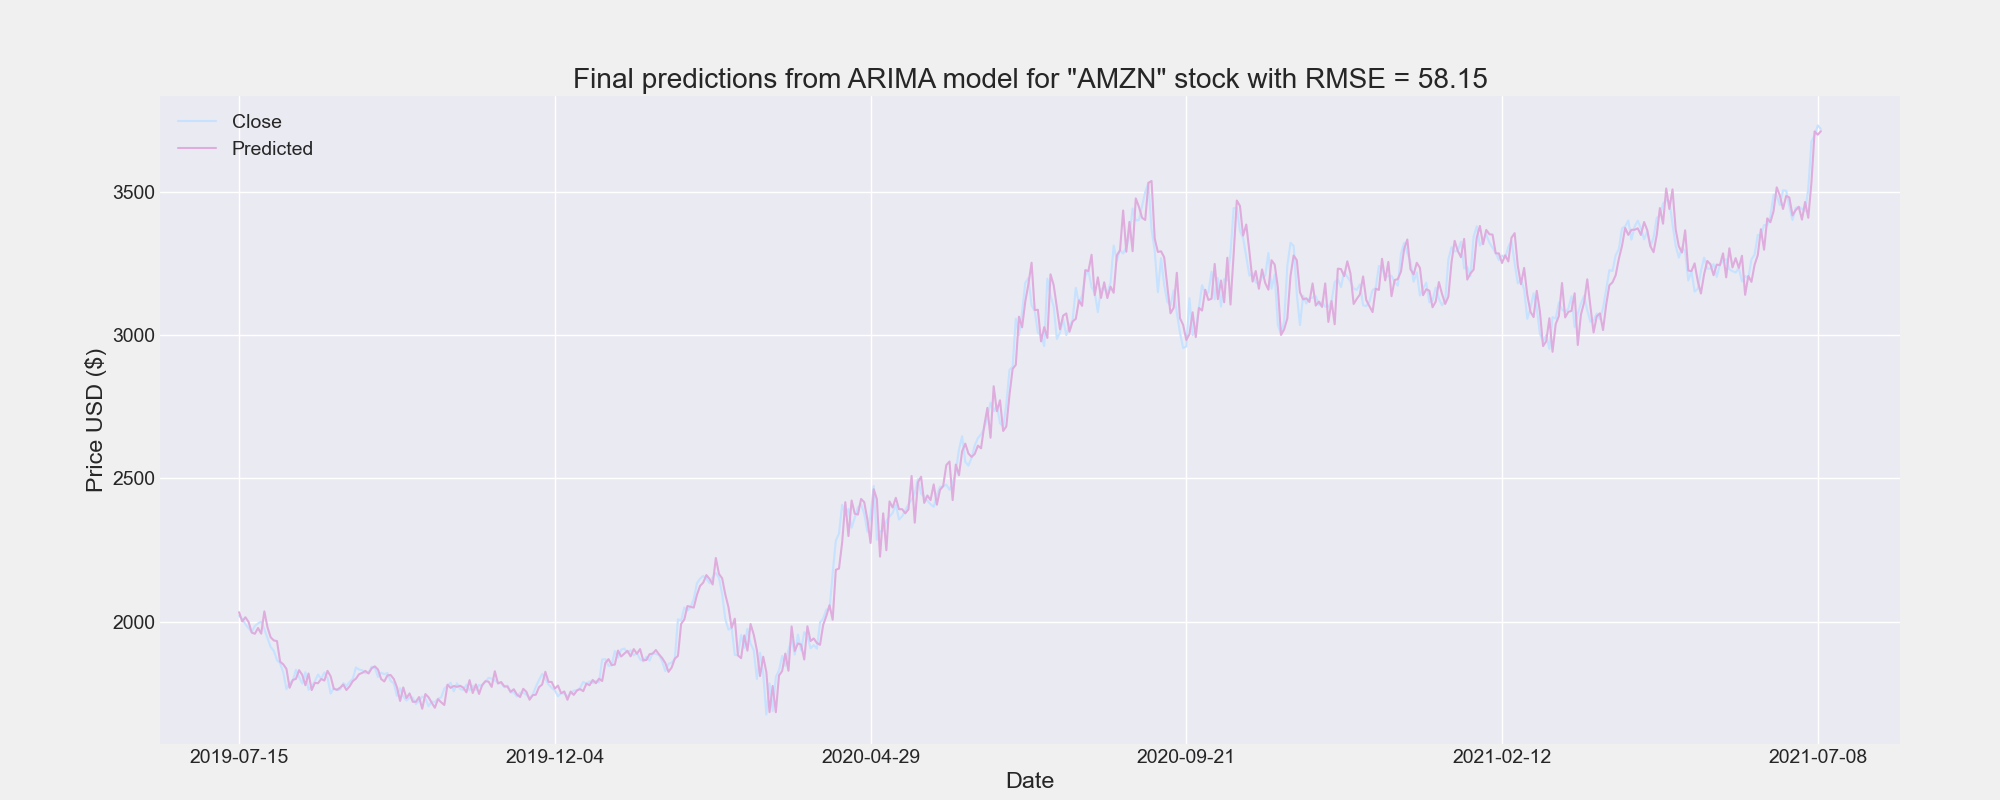
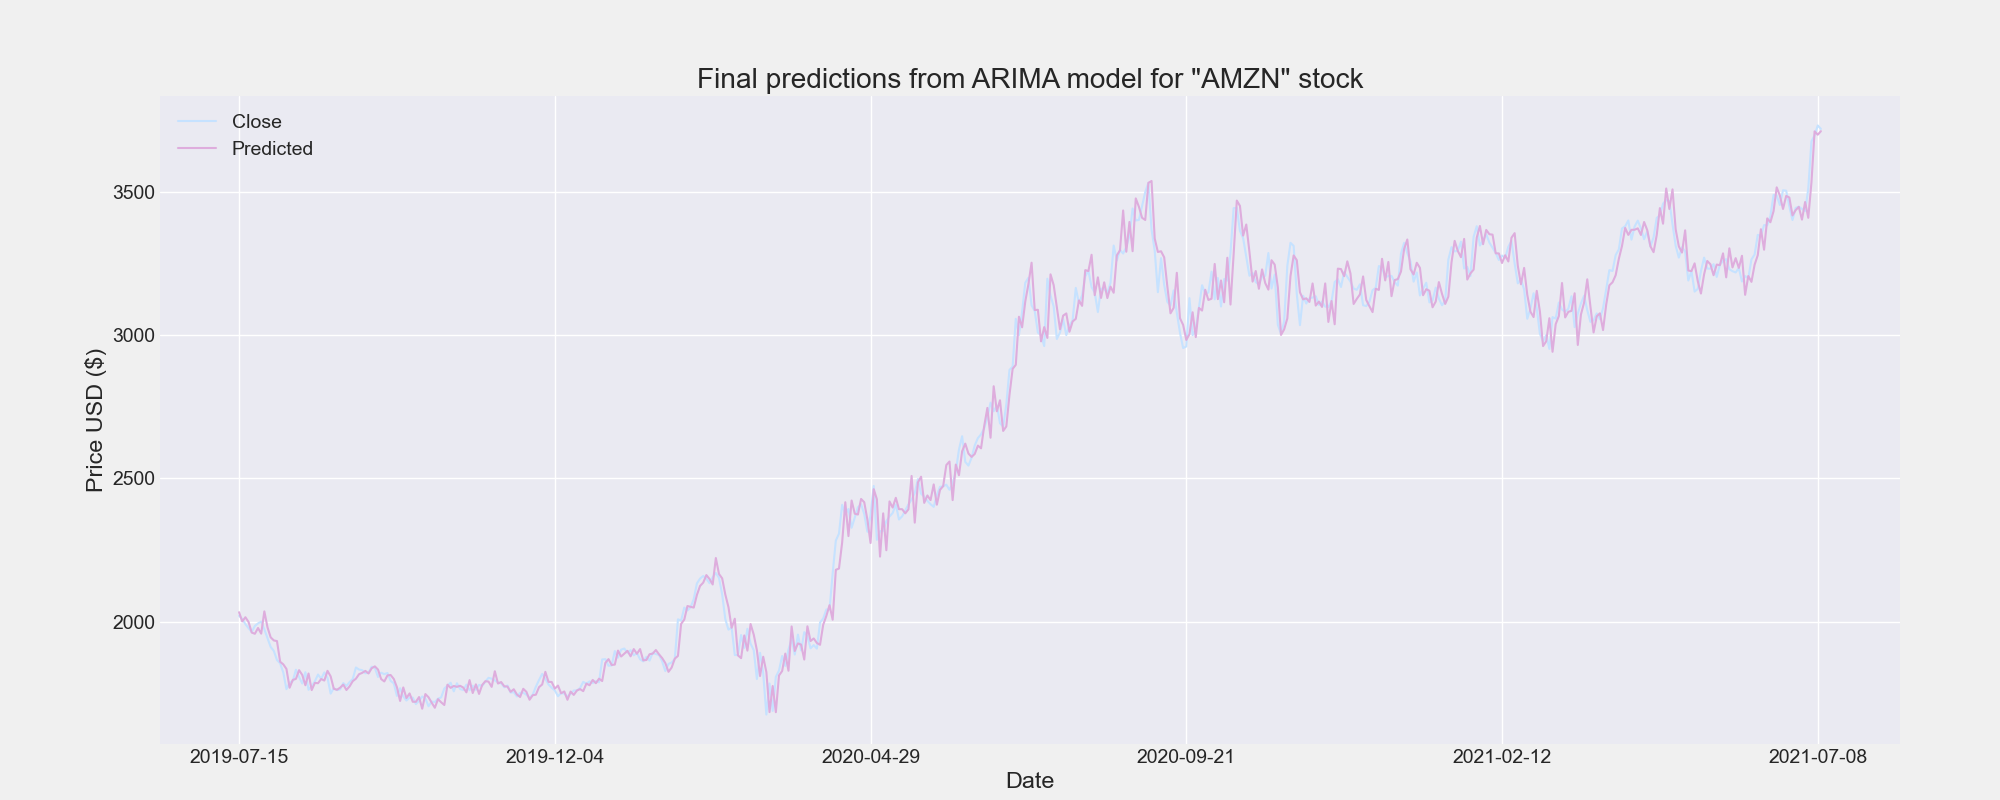
new plots

Changed region(s): [[0.279, 0.0625, 0.744, 0.125]]

diff --git a/ARIMA.py b/ARIMA.py
@@ -139,7 +139,7 @@ class ARIMA(object):
         matplotlib.style.use('seaborn-darkgrid')
         RMSE = np.sqrt(mean_squared_error(df.iloc[self.train_size:, :]["Predicted"].values, df.iloc[self.train_size:, :]["Close"].values))
         df.iloc[self.train_size:, :][["Close", "Predicted"]].plot(figsize=(20, 8), xlabel='Date', ylabel='Price USD ($)',
-                                        title=f'Final predictions from ARIMA model for "{stock_name}" stock with RMSE = {RMSE:.2f}',
+                                        title=f'Final predictions from ARIMA model for "{stock_name}" stock',
                                         color=["#c6e2ff", "#deaddd"], linewidth=1.5)
         if save_plot:
             plt.savefig('./demonstration_images/arima_predictions.png')

diff --git a/train.py b/train.py
@@ -89,8 +89,7 @@ def plot_predictions(df, train_data_size, predictions, model_name:str):
                    name='Predictions'))
 
     fig.update_layout(showlegend=True)
-    fig.update_layout(title=dict(text=f'Predictions of stock "{train["Company stock name"][0]}" from {x_val[0]} to {x_val[len(valid) - 1]}'+\
-                                 f' with RMSE = {RMSE:.2f}',
+    fig.update_layout(title=dict(text=f'Predictions of stock "{train["Company stock name"][0]}" from {x_val[0]} to {x_val[len(valid) - 1]}',
                                  xanchor='auto'),
                       xaxis=go.layout.XAxis(
                           title=go.layout.xaxis.Title(

diff --git a/sarimax.py b/sarimax.py
@@ -114,7 +114,7 @@ def plot_predictions(predictions, stock_name: str):
     predictions["Actual"].plot(figsize=(20, 8), legend=True, color="#81A6FF", linewidth=1)
     predictions["Predictions"].plot(legend=True, color="#C281FF", linewidth=1, figsize=(20, 8))
     plt.ylabel('USD $')
-    plt.title(f'SARIMAX predictions for "{stock_name}" stock with RMSE = {RMSE:.2f}')
+    plt.title(f'SARIMAX predictions for "{stock_name}" stock')
     plt.savefig('./demonstration_images/sarimax_predictions.png')
     plt.show()
 

diff --git a/main.py b/main.py
@@ -59,4 +59,4 @@ def run(stock: str, model_type: str, stationary=True):
 
 if __name__ == '__main__':
     # visualization()
-    run('./Data/AMZN.csv', 'lstm', True)
+    run('./Data/AMZN.csv', 'transformer', True)
